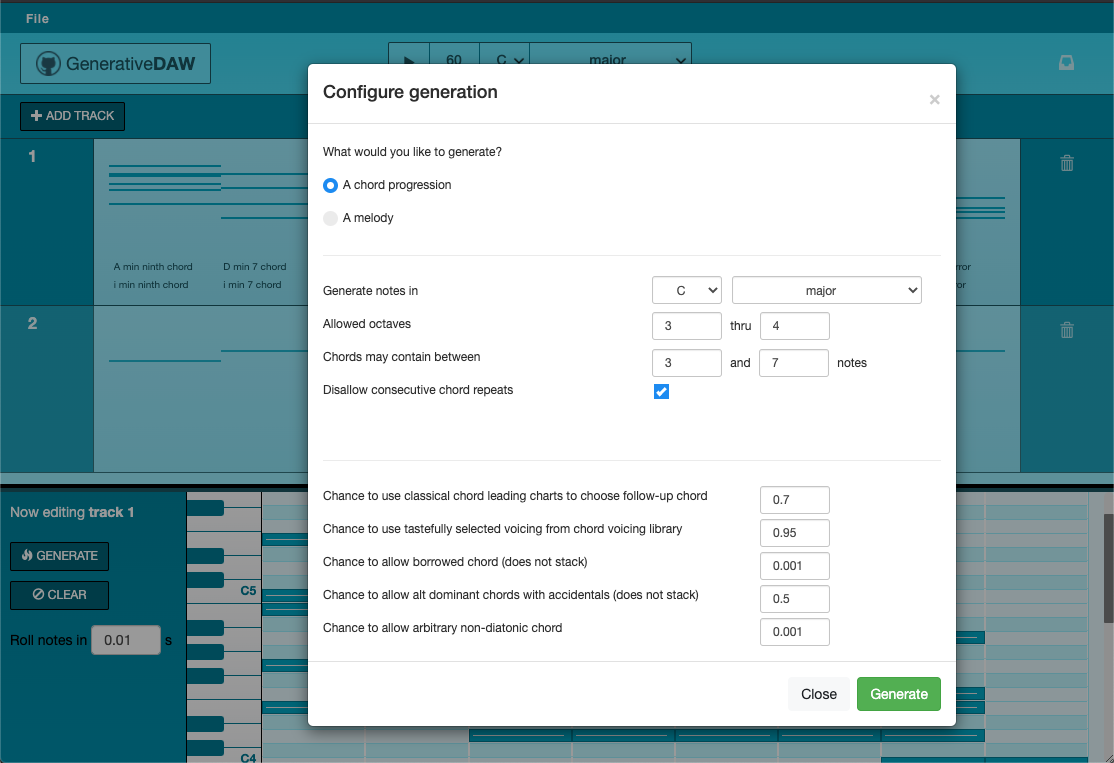
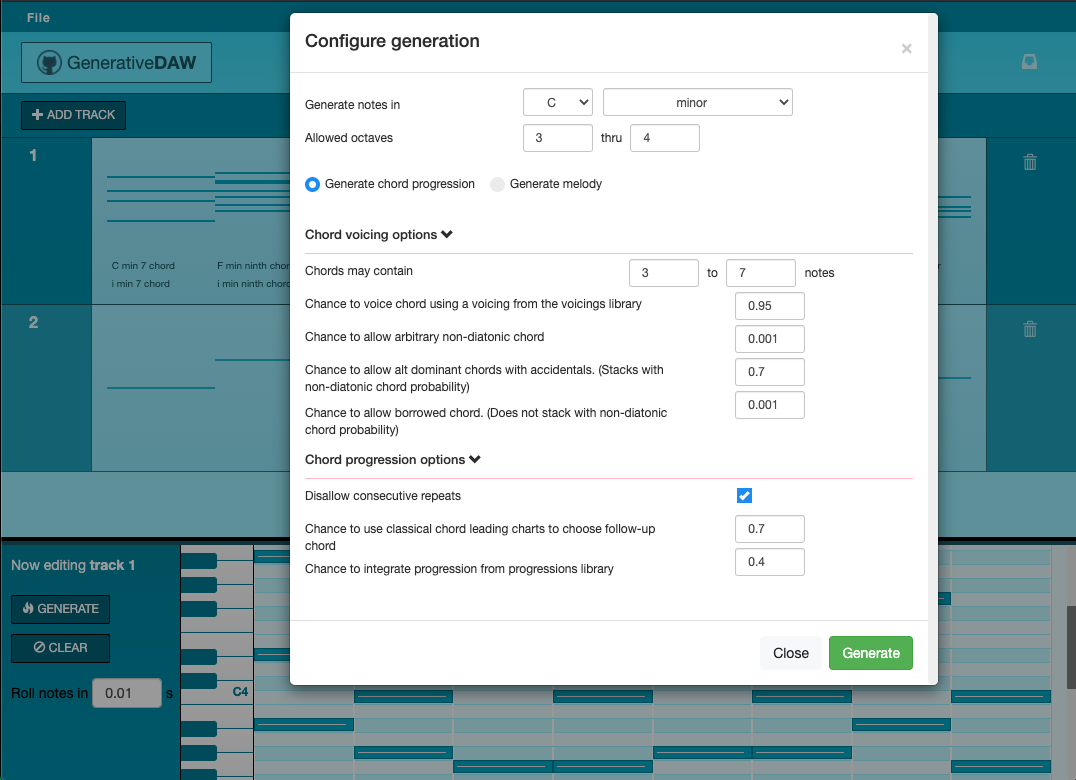
feat: chance to incorporate popular chord progression

diff --git a/ClientApp/src/app/piano-roll.component.html b/ClientApp/src/app/piano-roll.component.html
@@ -100,16 +100,16 @@
                         <button class="generation-modal-collapsible-btn" data-toggle="collapse" data-toggle="collapse" data-target="#chordProgressions" aria-expanded="true" aria-controls="chordProgressions" *ngIf="generationType == 'chords'">
                             Chord progression options
                         </button>
-                        <div class="generation-modal-collapsible collapse show" id="chordProgressions" *ngIf="generationType == 'chords'">
+                        <div class="generation-modal-collapsible collapse show" id="chordProgressions" >
                             <div class='row'>
                                 <div class='col-8'>
                                     <label class='form-label form-label-text' style='display:inline-block;margin-right:15px;'>
-                                        Disallow consecutive chord repeats
+                                        Disallow consecutive repeats
                                     </label>
-                                    <label class='form-label form-label-text' style='display:block;margin-right:15px;'>
+                                    <label class='form-label form-label-text' style='display:block;margin-right:15px;' *ngIf="generationType == 'chords'">
                                         Chance to use classical chord leading charts to choose follow-up chord
                                     </label>
-                                    <label class='form-label form-label-text' style='display:block;margin-right:15px;margin-top:10px;'>
+                                    <label class='form-label form-label-text' style='display:block;margin-right:15px;margin-top:10px;' *ngIf="generationType == 'chords'" >
                                         Chance to integrate progression from progressions library
                                     </label>
                                 </div>
@@ -118,7 +118,7 @@
                                         <input class='form-control' style='width:70px; display:inline-block' [(ngModel)]="disallowRepeats" type="checkbox" name="disallowRepeats">
                                         <span class="checkmark"></span>
                                     </label>
-                                    <label class='form-label' style='display:block;margin-right:15px;' *ngIf="generationType == 'chords'">
+                                    <label class='form-label' style='display:block;margin-right:15px;' *ngIf="generationType == 'chords'" >
                                         <input class='form-control' [(ngModel)]="chanceToUseChordLeadingChart" type="number" name="chanceToUseChordLeadingChart" style='width:70px; display:inline-block' >
                                     </label>
                                     <label class='form-label' style='display:block;margin-right:15px;' *ngIf="generationType == 'chords'">

diff --git a/ClientApp/src/app/piano-roll.component.css b/ClientApp/src/app/piano-roll.component.css
@@ -236,11 +236,15 @@ Adjacent active notes are to be interpreted as sustained.grid-state-wrapper[data
     background: rgba(0,0,0,0.4);
 }
 
+.generation-modal .modal-dialog {
+    margin-top:10px;
+}
+
 .generation-modal .modal-content {
-    top:30px;
+    /* top:10px; */
     position:absolute;
     width:650px;
-    max-height: 600px;
+    max-height: 680px;
     overflow-y: scroll;
 }
 

diff --git a/ServerApp/generation_tools.py b/ServerApp/generation_tools.py
@@ -1,7 +1,7 @@
 import random
 from constants import constants
-from chord_knowledge import chord_leading_chart, good_voicings, chord_charts
-from utils import roman_to_int, decide_will_event_occur, flatten_note_set, pick_n_random_notes
+from chord_knowledge import chord_leading_chart, good_voicings, chord_charts, good_chord_progressions
+from utils import roman_to_int, decide_will_event_occur, flatten_note_set, pick_n_random_notes, pretty_print_progression
 from client_logging import ClientLogger
 from music_theory import determine_chord_name, get_allowed_notes, \
     transpose_note_n_semitones, build_chord_from_voicing, label_voicings_by_roman_numeral, \
@@ -15,6 +15,7 @@ class Generator:
 
         self.key = content['key'].replace('#', 's').lower()
         self.scale = content['scale']
+        self.scale_name = constants['scales'][self.scale]['name']
         self.length = content['length']
         self.disallow_repeats = content['disallowRepeats']
         self.octave_range = list(range(content['octaveLowerBound'], content['octaveUpperBound'] + 1))
@@ -33,7 +34,7 @@ class Generator:
             self.chance_to_allow_non_diatonic_chord = content['chanceToAllowNonDiatonicChord']
             self.chance_to_allow_borrowed_chord = content['chanceToAllowBorrowedChord']
             self.chance_to_allow_alt_dom_chord = content['chanceToAllowAlteredDominantChord']
-            self.chance_to_use_good_progression = content['chanceToUseCommonProgression']
+            self.chance_to_use_common_progression = content['chanceToUseCommonProgression']
             # Labeling chord voicings with acceptable roman numerals per scale to preserve diatonicity.
             # This result is specific to the scale of interest. But not its key.
             self.labeled_voicings = label_voicings_by_roman_numeral(self.key, self.scale)
@@ -224,7 +225,7 @@ class Generator:
             return built_chord, [chord_letter_name, chord_roman_name], chosen_voicing['name'], is_non_diatonic, is_borrowed, is_alt_dom
         return -1, -1, -1, -1, -1, -1
 
-    def build_chord_with_root(self, chosen_target_degree):
+    def build_chord_from_roman_numeral(self, chosen_target_degree):
         """
         Returns (built_chord, name_of_chord, generation_method)
         """
@@ -244,13 +245,16 @@ class Generator:
                     generation_method += "\n\t- Decided to allow a non-diatonic altered dominant chord."
                 elif is_non_diatonic:
                     generation_method += "\n\t- Decided to allow a non-diatonic chord."
-                generation_method += "\n\t- Decided to voice {} as a {}".format(chosen_target_degree, name_of_voicing)
+                generation_method += "\n\t- Decided to voice {} as a {}.".format(chosen_target_degree, name_of_voicing)
                 return (built_chord, name_of_chord, generation_method)
 
         # If all else fails, build it randomly.
         built_chord = self.build_chord_with_root_randomly(chord_root_note, chosen_target_degree)
         generation_method = '\n\t- Built {} by picking chord tones at random.'.format(chosen_target_degree)
-        return (built_chord, None, generation_method)
+        name_of_chord = None
+        if built_chord != -1:
+            name_of_chord = determine_chord_name(flatten_note_set(built_chord), self.key, constants['scales'][self.scale])
+        return (built_chord, name_of_chord, generation_method)
 
     def generate_next_chord(self, previous_chord, previous_chord_degree, previous_chord_name):
         """
@@ -260,9 +264,9 @@ class Generator:
         candidate_chord = None
         name_of_candidate_chord = None
         degree_of_candidate_chord = None
-        generation_method = '?'
+        generation_method = ''
 
-        # Perform weighted coin toss
+        # Perform weighted coin toss to use a chord leading chart
         use_chord_leading = decide_will_event_occur(self.chance_to_use_chord_leading)
 
         if use_chord_leading and len(previous_chord) > 0 and previous_chord_name[1] != '':
@@ -279,7 +283,7 @@ class Generator:
                 leading_chord = -1
                 while leading_chord == -1 and len(leading_targets) > 0:
                     chosen_target_degree = random.choice(leading_targets)
-                    leading_chord, name_of_chord, __generation_method = self.build_chord_with_root(chosen_target_degree)
+                    leading_chord, name_of_chord, __generation_method = self.build_chord_from_roman_numeral(chosen_target_degree)
                 
                     if leading_chord != -1:
                         candidate_chord = leading_chord
@@ -290,24 +294,14 @@ class Generator:
                     leading_targets.remove(chosen_target_degree)
         
         if candidate_chord is None:
-            # Perform weighted coin toss to decide whether to use a common voicing
-            use_chord_voicing_from_library = decide_will_event_occur(self.chance_to_use_voicing_from_library)
-            if use_chord_voicing_from_library:
-                chosen_target_degree = random.choice(chord_charts[self.scale])
-                chord_root_note = roman_numeral_to_note(chosen_target_degree, self.parent_scale_allowed_notes)
-                if chord_root_note != -1:
-                    built_chord, name_of_chord, name_of_voicing, is_non_diatonic, is_borrowed, is_alt_dom = self.build_chord_with_random_good_voicing(chosen_target_degree, chord_root_note)
-                    if built_chord != -1:
-                        candidate_chord = built_chord
-                        name_of_candidate_chord = name_of_chord
-                        generation_method = ''
-                        if is_borrowed:
-                            generation_method += "\t- Decided to allow a borrowed chord.\n"
-                        elif is_alt_dom:
-                            generation_method += "\t- Decided to allow a non-diatonic altered dominant chord.\n"
-                        elif is_non_diatonic:
-                            generation_method += "\t- Decided to allow a non-diatonic chord.\n"
-                        generation_method += "\t- Decided to voice {} as a {}".format(chosen_target_degree, name_of_voicing)
+            # Pick a random degree of the scale and build a chord on it
+            chosen_target_degree = random.choice(chord_charts[self.scale])
+            built_chord, name_of_chord, __generation_method = self.build_chord_from_roman_numeral(chosen_target_degree)
+            if built_chord != -1:
+                candidate_chord = built_chord
+                name_of_candidate_chord = name_of_chord
+                generation_method = '\t- Picked scale degree {} randomly.'.format(chosen_target_degree)
+                generation_method += __generation_method
 
         if candidate_chord is None:
             generation_method = '\t- Picked {} scale notes at random.'.format(num_notes_in_chord)
@@ -346,15 +340,64 @@ class Generator:
         previous_chord = []
         previous_chord_degree = '?'
         previous_chord_name = '', ''
-        for i in range(self.length):
-            chord, chord_name, chord_degree, generation_method = self.generate_next_chord(previous_chord, previous_chord_degree, previous_chord_name)
-            result_chord_progression.append(chord)
-            result_chord_names.append(chord_name)
-
-            previous_chord = chord
-            previous_chord_name = chord_name
-            previous_chord_degree = chord_degree
+        while len(result_chord_progression) < self.length:
+            # Perform weighted coin toss to use a pre-selected chord progression
+            use_chord_progression_from_library = decide_will_event_occur(self.chance_to_use_common_progression)
+            # Which chord progressions fit in the remaining space?
+            allowed_progressions = []
+            for progression in good_chord_progressions[self.scale_name]:
+                if len(progression['roman_numerals']) + len(result_chord_progression) < self.length:
+                    allowed_progressions.append(progression)
             
-            ClientLogger.log('Added {} ( {} ). Generation pathway: \n{}'.format(previous_chord_name[0], previous_chord_degree, generation_method))
+            if use_chord_progression_from_library and len(allowed_progressions) > 0:
+                progression = random.choice(allowed_progressions)
+                progression_str = pretty_print_progression(progression['roman_numerals'])
+                progression_chords = []
+                progression_chord_names = []
+                # Log at the end only if everything is successful
+                if len(progression['name']) > 0:
+                    lines_to_log = ['Decided to incorporate {}. ({})'.format(progression_str, progression['name'])]
+                else:
+                    lines_to_log = ['Decided to incorporate {} progression.'.format(progression_str)]
+                failure = False
+
+                # If the first chosen progression happens to start on the same roman numeral as the previous
+                # chord, lets skip that chord.
+                remaining_numerals = progression['roman_numerals']
+                if remaining_numerals[0] == previous_chord_degree:
+                    remaining_numerals = remaining_numerals[1:]
+                    lines_to_log += ["The previous chord was a {}, so we'll start the progression from {}.".format(previous_chord_degree, remaining_numerals[0])]
+
+                for numeral_to_add in remaining_numerals:
+                    chord, chord_name, __generation_method = self.build_chord_from_roman_numeral(numeral_to_add)
+                    if chord == -1:
+                        print('Failed to build chord on ', numeral_to_add)
+                        failure = True
+                        break
+                    generation_method = '\t- Using {} to satisfy the {}.'.format(numeral_to_add, progression_str)
+                    generation_method += __generation_method
+                    progression_chords.append(chord)
+                    progression_chord_names.append(chord_name)
+                    lines_to_log.append('Added {} ( {} ). Generation pathway: \n{}'.format(chord_name[0], numeral_to_add, generation_method))
+                if failure:
+                    continue
+                result_chord_progression += progression_chords
+                result_chord_names += progression_chord_names
+                previous_chord = result_chord_progression[-1]
+                previous_chord_name = result_chord_names[-1]
+                previous_chord_degree = progression['roman_numerals'][-1]
+                for line in lines_to_log:
+                    ClientLogger.log(line)
+                ClientLogger.log('{} progression completed.'.format(progression_str))
+            else:
+                chord, chord_name, chord_degree, generation_method = self.generate_next_chord(previous_chord, previous_chord_degree, previous_chord_name)
+                result_chord_progression.append(chord)
+                result_chord_names.append(chord_name)
+
+                previous_chord = chord
+                previous_chord_name = chord_name
+                previous_chord_degree = chord_degree
+                
+                ClientLogger.log('Added {} ( {} ). Generation pathway: \n{}'.format(previous_chord_name[0], previous_chord_degree, generation_method))
         
         return result_chord_progression, result_chord_names

diff --git a/ServerApp/chord_knowledge.py b/ServerApp/chord_knowledge.py
@@ -141,34 +141,34 @@ good_voicings = {
 # Some sources:
 # >> https://mixedinkey.com/captain-plugins/wiki/best-chord-progressions/
 # >> https://www.libertyparkmusic.com/common-chord-progressions/
-nice_progressions = {
+good_chord_progressions = {
     'major': [
-        ['I', 'IV', 'V'],
-        ['I', 'V6', 'vi', 'V'],
-        ['I', 'V', 'vi', 'iii', 'IV'],
-        ['I', 'vi', 'IV', 'V'], # the 50s progression
-        ['I', 'IV', 'V', 'vi'],
-        ['I', 'IV', 'vi', 'V'],
-        ['IV', 'I6', 'ii'],
-        ['vi', 'V', 'IV', 'V'],
-        ['vi', 'IV', 'I', 'V'],
-        ['vi', 'V', 'I', 'IV'],
-        ['vi', 'I', 'V', 'IV'],
-        ['I', 'V', 'vi', 'IV'], # The 'Axis of Awesome' progression.
-        ['ii', 'V', 'I'], # Jazz =)
-        ['iii', 'IV', 'iii', 'vi'], # from a prod. superstar beat
-        ['iii', 'IV'] # Example: PND - Come and See Me
+        { 'roman_numerals': ['I', 'IV', 'V'], 'name': ''},
+        # { 'roman_numerals': ['I', 'V6', 'vi', 'V'], 'name': ''},
+        { 'roman_numerals': ['I', 'V', 'vi', 'iii', 'IV'], 'name': ''},
+        { 'roman_numerals': ['I', 'vi', 'IV', 'V'], 'name': 'The 50s progression'},
+        { 'roman_numerals': ['I', 'IV', 'V', 'vi'], 'name': ''},
+        { 'roman_numerals': ['I', 'IV', 'vi', 'V'], 'name': ''},
+        # { 'roman_numerals': ['IV', 'I6', 'ii'], 'name': ''},
+        { 'roman_numerals': ['vi', 'V', 'IV', 'V'], 'name': ''},
+        { 'roman_numerals': ['vi', 'IV', 'I', 'V'], 'name': ''},
+        { 'roman_numerals': ['vi', 'V', 'I', 'IV'], 'name': ''},
+        { 'roman_numerals': ['vi', 'I', 'V', 'IV'], 'name': ''},
+        { 'roman_numerals': ['I', 'V', 'vi', 'IV'], 'name': 'The Axis of Awesome overused pop progression.'},
+        { 'roman_numerals': ['ii', 'V', 'I'], 'name': ''},
+        { 'roman_numerals': ['iii', 'IV', 'iii', 'vi'], 'name': ''},
+        { 'roman_numerals': ['iii', 'IV'], 'name': 'PND - Come and See Me progression'}
     ],
     'minor': [
-        ['i', 'iv', 'v'], # Example: The Weeknd - Often
-        # ['i', 'ii\xB0', 'V', 'i'], # Contains borrowed chord
-        ['i', 'VI', 'III', 'VII'],
-        ['i', 'iv', 'V'], # Contains borrowed chord
-        ['iv', 'v', 'i'],
-        ['i', 'iv', 'iv', 'i'], # Example: Bandkidjay - Bleu Chanel
-        ['VI', 'i', 'i', 'i'], # Example: Nav - Myself
-        ['i', 'VI', 'i', 'V7'], # Example: Lil Tecca - Ransom
-        [ 'i' , 'III', 'v'],  # Example: 88Glam - On Sight
-        [ 'iv', 'i', 'iv', 'VII' ],  # Example: J Balvin - Solitario        
+        { 'roman_numerals': ['i', 'iv', 'v'], 'name': 'The Weeknd - Often progression'}, # Example:
+        # { 'roman_numerals': ['i', 'ii\xB0', 'V', 'i'], 'name': ''}, # Contains borrowed chord
+        { 'roman_numerals': ['i', 'VI', 'III', 'VII'], 'name': ''},
+        { 'roman_numerals': ['i', 'iv', 'V'], 'name': ''}, # Contains borrowed chord
+        { 'roman_numerals': ['iv', 'v', 'i'], 'name': ''},
+        { 'roman_numerals': ['i', 'iv', 'iv', 'i'], 'name': 'Bandkidjay - Bleu Chanel progression'},
+        { 'roman_numerals': ['VI', 'i', 'i', 'i'], 'name': 'Nav - Myself progression'},
+        # { 'roman_numerals': ['i', 'VI', 'i', 'V7'], 'name': 'Lil Tecca - Ransom progression'},
+        { 'roman_numerals': [ 'i' , 'III', 'v'], 'name': '88Glam - On Sight progression'},
+        { 'roman_numerals': [ 'iv', 'i', 'iv', 'VII'], 'name': 'J Balvin - Solitario progression'},
     ]
 }

diff --git a/ServerApp/music_theory.py b/ServerApp/music_theory.py
@@ -186,9 +186,10 @@ def note_to_roman_numeral(note, sorted_allowed_notes):
 
 def roman_numeral_to_note(roman_numeral_in, allowed_notes):
     # Translate the roman numeral to a note in the context of a key.
+    # Remove diminished marks, seventh chord notation, augmented notation, sharps, flats
     roman_numeral_upper = roman_numeral_in.replace('b',''
         ).replace('#','').replace('+','').replace('\xB0', ''
-        ).upper()
+        ).replace('7', '').upper()
     target_digit = roman_to_int(roman_numeral_upper)
 
     # Lists are zero-indexed while roman numerals are 1-indexed, so subtract 1 from the target_digit

diff --git a/ServerApp/utils.py b/ServerApp/utils.py
@@ -38,3 +38,12 @@ def pick_n_random_notes(allowed_notes_in, n):
         note_set.append(allowed_notes[random_index])
         allowed_notes.pop(random_index)
     return note_set
+
+def pretty_print_progression(progression):
+    rv = ''
+    for numeral in progression:
+        rv += numeral
+        rv += ', '
+    
+    return rv[:-2]
+
